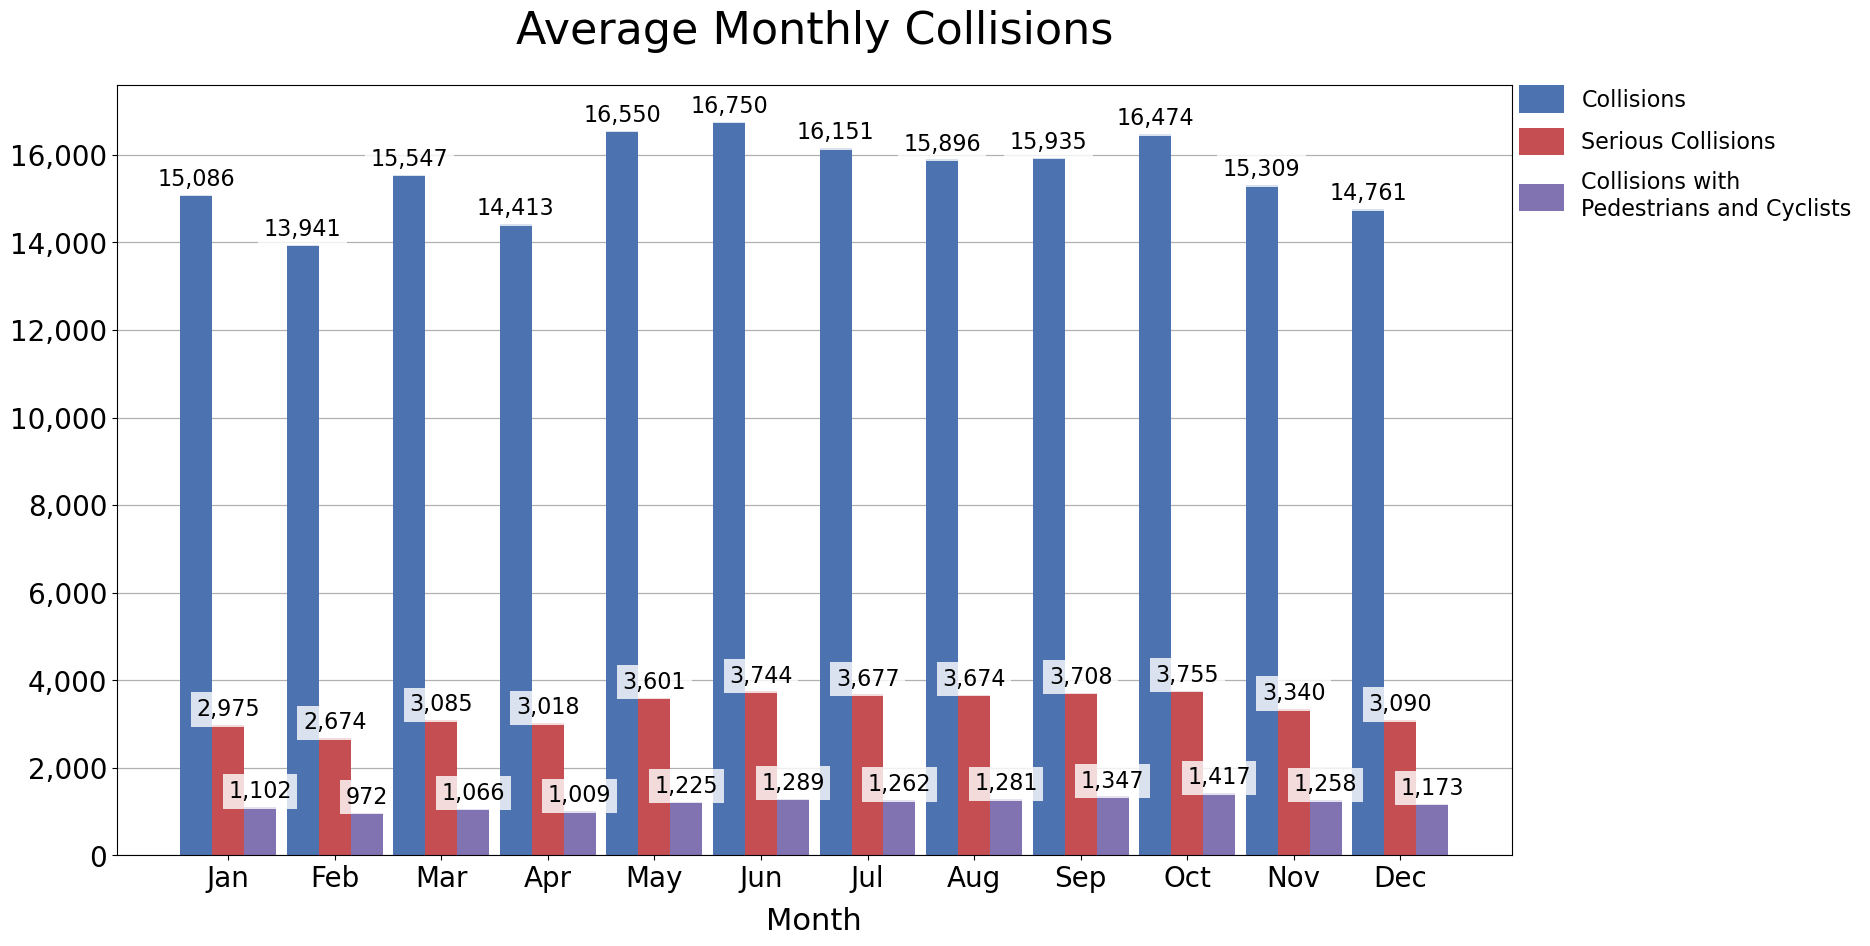
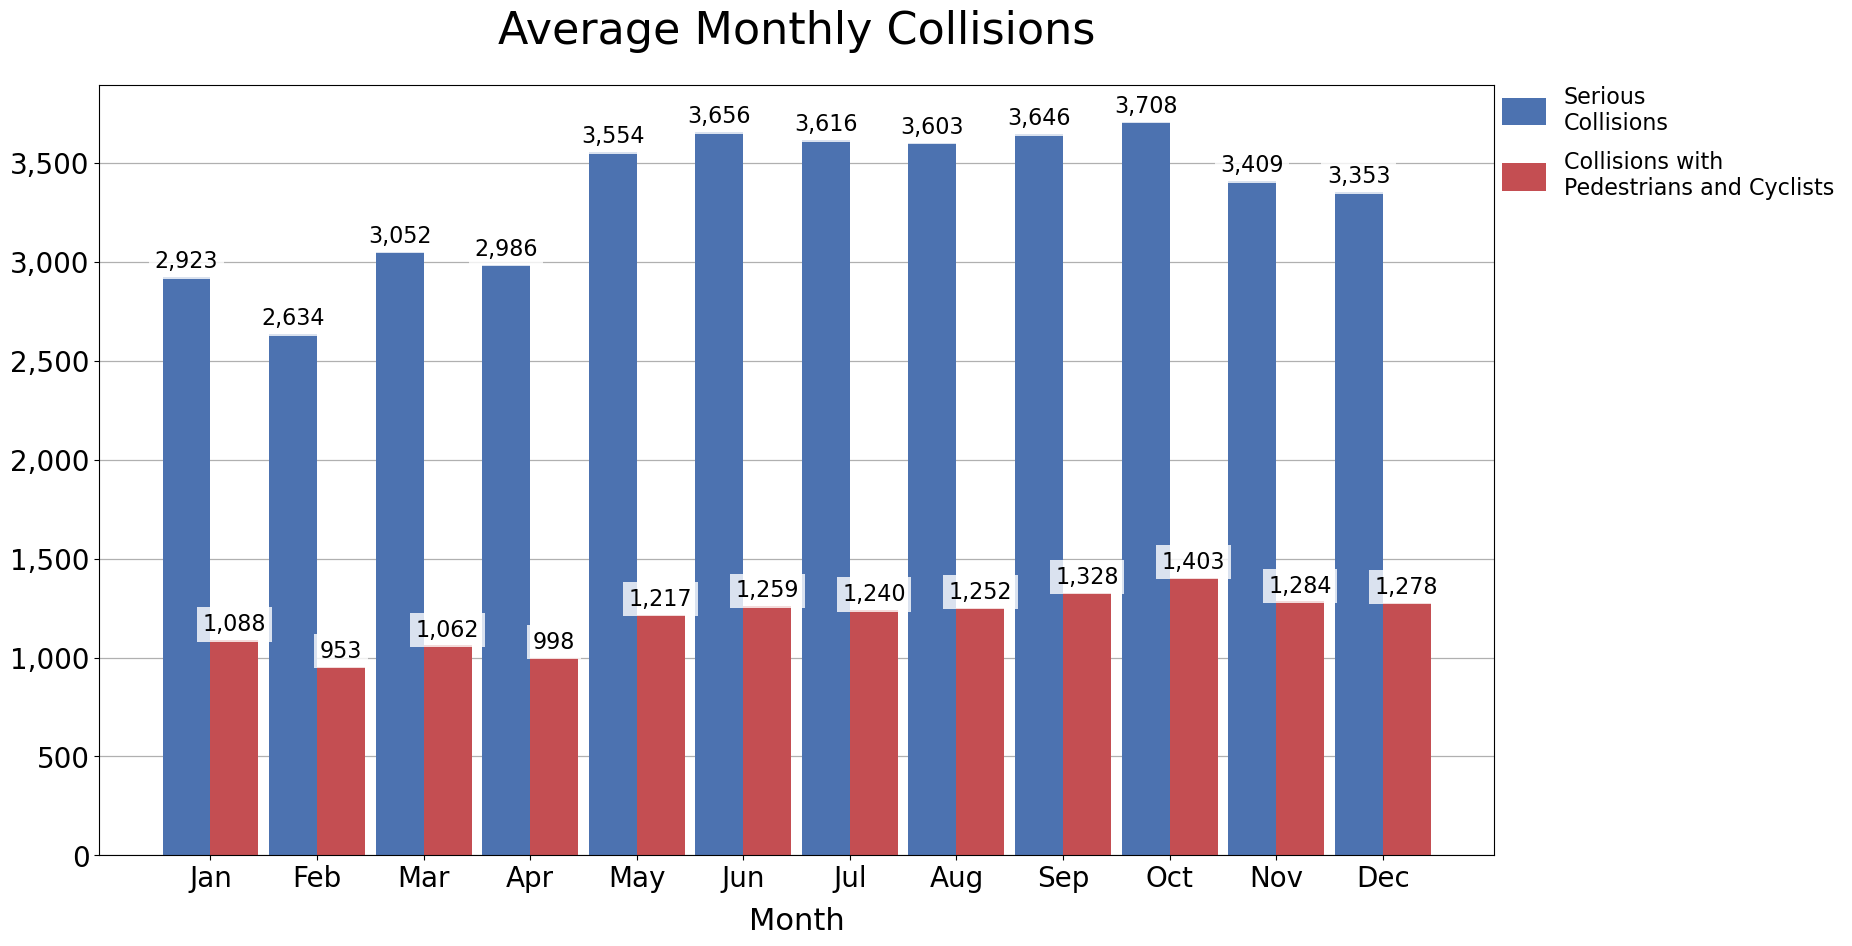
Update trends in website

diff --git a/docs/content/trends/weekly.md b/docs/content/trends/weekly.md
@@ -5,32 +5,24 @@ description: Weekly vehicle collisions patterns with 2D-heatmaps (day-of-week, t
 hide_hero: true
 ---
 # Weekly Patterns
-Serious collisions are collisions that result in injury or death.
-
-<hr class="hr">
-### Collisions are most common during weekday 'rush-hours'
-<img src="images/all_collisions_heat.png">
-
-<hr class="hr">
-### Serious collisions are also most common during weekday 'rush-hours'
-__However serious collisions appear more prevalent in the afternoon and evening than in the morning__
-
-<img src="images/serious_heat.png">
-
-<hr class="hr">
-### Collisions with pedestrians and cyclists are concentrated in the afternoon and evening
-
-<img src="images/non_motor_heat.png">
-
-<hr class="hr">
-### Fatal collisions have a significantly different pattern
-- Fatal collisions are most common Saturday and Sunday from 3am to 5am
-- Fatal collisions are elevated Friday and Saturday in the late afternoon / evening
-
-<img src="images/fatal_heat.png">
+_Serious collisions are collisions that result in injury or death_
 
 <hr class="hr">
 ### Collisions increase from Sunday to Friday
+___100+ people are injured on most days___
+
 <img src="images/weekly.png">
+
+<hr class="hr">
+### Fatal collisions are most common Saturday and Sunday from 3am to 5am
+<img src="images/fatal_heat.png">
+
+<hr class="hr">
+### Serious collisions are most common during evening 'rush-hours'
+<img src="images/serious_heat.png">
+
+<hr class="hr">
+### Collisions with pedestrians and cyclists have a similar pattern to serious collisions
+<img src="images/non_motor_heat.png">
 
 {% include analysis_data_range.html %}

diff --git a/docs/index.md b/docs/index.md
@@ -6,10 +6,10 @@ hide_hero: true
 ---
 # Analysis of New York City Vehicle Collisions
 
-Each year, vehicle collisions in New York City injure more than 40,000 people and kill more than 200 people. Understanding where, when, and why collisions occur is essential to reducing the number of people injured and killed. 
+Each year, vehicle collisions in New York City injure approximately 40,000 people and kill more than 200 people. Understanding where, when, and why collisions occur is essential to reducing the number of people injured and killed. 
 
 To better understand where and when collisions occur we:
 - [Map where collisions occur]({{ "/content/maps" | relative_url }})
-- [Examine locations with high concentrations of collisions]({{ "/content/hotspots" | relative_url }})
-- [Review collision trends over time]({{ "/content/trends" | relative_url }})
+- [Identify hot spots]({{ "/content/hotspots" | relative_url }})
+- [Review trends]({{ "/content/trends" | relative_url }})
 - [Compare collisions by NYPD precinct]({{ "/content/police" | relative_url }})

diff --git a/docs/content/trends/yearly.md b/docs/content/trends/yearly.md
@@ -4,19 +4,14 @@ title: Annual Vehicle Collisions in New York City
 description: Annual vehicle collisions, collision injuries and deaths, and collisions with pedestrians / cyclists in New York City (NYC)
 hide_hero: true
 ---
-# Collisions by Year
-Serious collisions are collisions that result in injury or death. 
-
+# Annual Collisions
 <hr class="hr">
-### The number of vehicle collisions dropped sharply from 2020 onwards
 
+### Collisions have been trending upwards since dropping in 2020
 <img src="images/yearly_collisions.png">
 
 <hr class="hr">
-### But deaths and injuries did not show a corresponding decrease
-__The 'average' collision was more dangerous from 2020 onwards__
-- 2020 and 2021 fatal collisions hit levels not seen since 2013
-- While collisions were down ~45% in 2020 and 2021 from 2019 levels, 2020 and 2021 injuries only dropped ~27% and ~20% respectively
+# Annual Injuries and Deaths
 
 <img src="images/yearly_injuries_deaths.png">
 

diff --git a/docs/content/sources.md b/docs/content/sources.md
@@ -18,3 +18,8 @@ hide_footer: true
 ##### New York City Police Department (NYPD) Precinct Shapefiles
 
 [https://data.cityofnewyork.us/Public-Safety/Police-Precincts/78dh-3ptz]({{ "https://data.cityofnewyork.us/Public-Safety/Police-Precincts/78dh-3ptz" | absolute_url }})
+
+<br>
+##### MTA Bridge and Tunnel Toll Data
+
+[https://data.ny.gov/Transportation/Hourly-Traffic-on-Metropolitan-Transportation-Auth/qzve-kjga/about_data]({{ "https://data.ny.gov/Transportation/Hourly-Traffic-on-Metropolitan-Transportation-Auth/qzve-kjga/about_data" | absolute_url }})

diff --git a/docs/content/trends/seasonal.md b/docs/content/trends/seasonal.md
@@ -1,0 +1,15 @@
+---
+layout: page
+title: Seasonal Vehicle Collisions in New York City
+description: Seasonal vehicle collisions with injuries and deaths, and collisions with pedestrians / cyclists in New York City (NYC)
+hide_hero: true
+---
+# Collisions by Season
+_Serious collisions are collisions that result in injury or death_
+
+<hr class="hr">
+### Serious collisions peak in summer but collisions with pedestrians and cyclists peak in the fall
+
+<img src="images/seasonal.png">
+
+{% include analysis_data_range.html %}

diff --git a/docs/content/trends/monthly.md b/docs/content/trends/monthly.md
@@ -5,11 +5,10 @@ description: Average monthly vehicle collisions, collision injuries and deaths, 
 hide_hero: true
 ---
 # Collisions by Month
-Serious collisions are collisions that result in injury or death.
+_Serious collisions are collisions that result in injury or death_
 
 <hr class="hr">
 ### Collisions are elevated from May to October
-- Collisions with pedestrians and cyclists appear to rise from Spring and peak in October
 
 <img src="images/monthly.png">
 

diff --git a/docs/content/trends.md b/docs/content/trends.md
@@ -6,6 +6,7 @@ hide_hero: true
 ---
 # Trends in Vehicle Collisions
 - [Yearly]({{ "/content/trends/yearly" | relative_url }})
+- [Seasonal]({{ "/content/trends/seasonal" | relative_url }})
 - [Monthly]({{ "/content/trends/monthly" | relative_url }})
 - [Weekly]({{ "/content/trends/weekly" | relative_url }})
-- [Hourly]({{ "/content/trends/hourly" | relative_url }})
+
